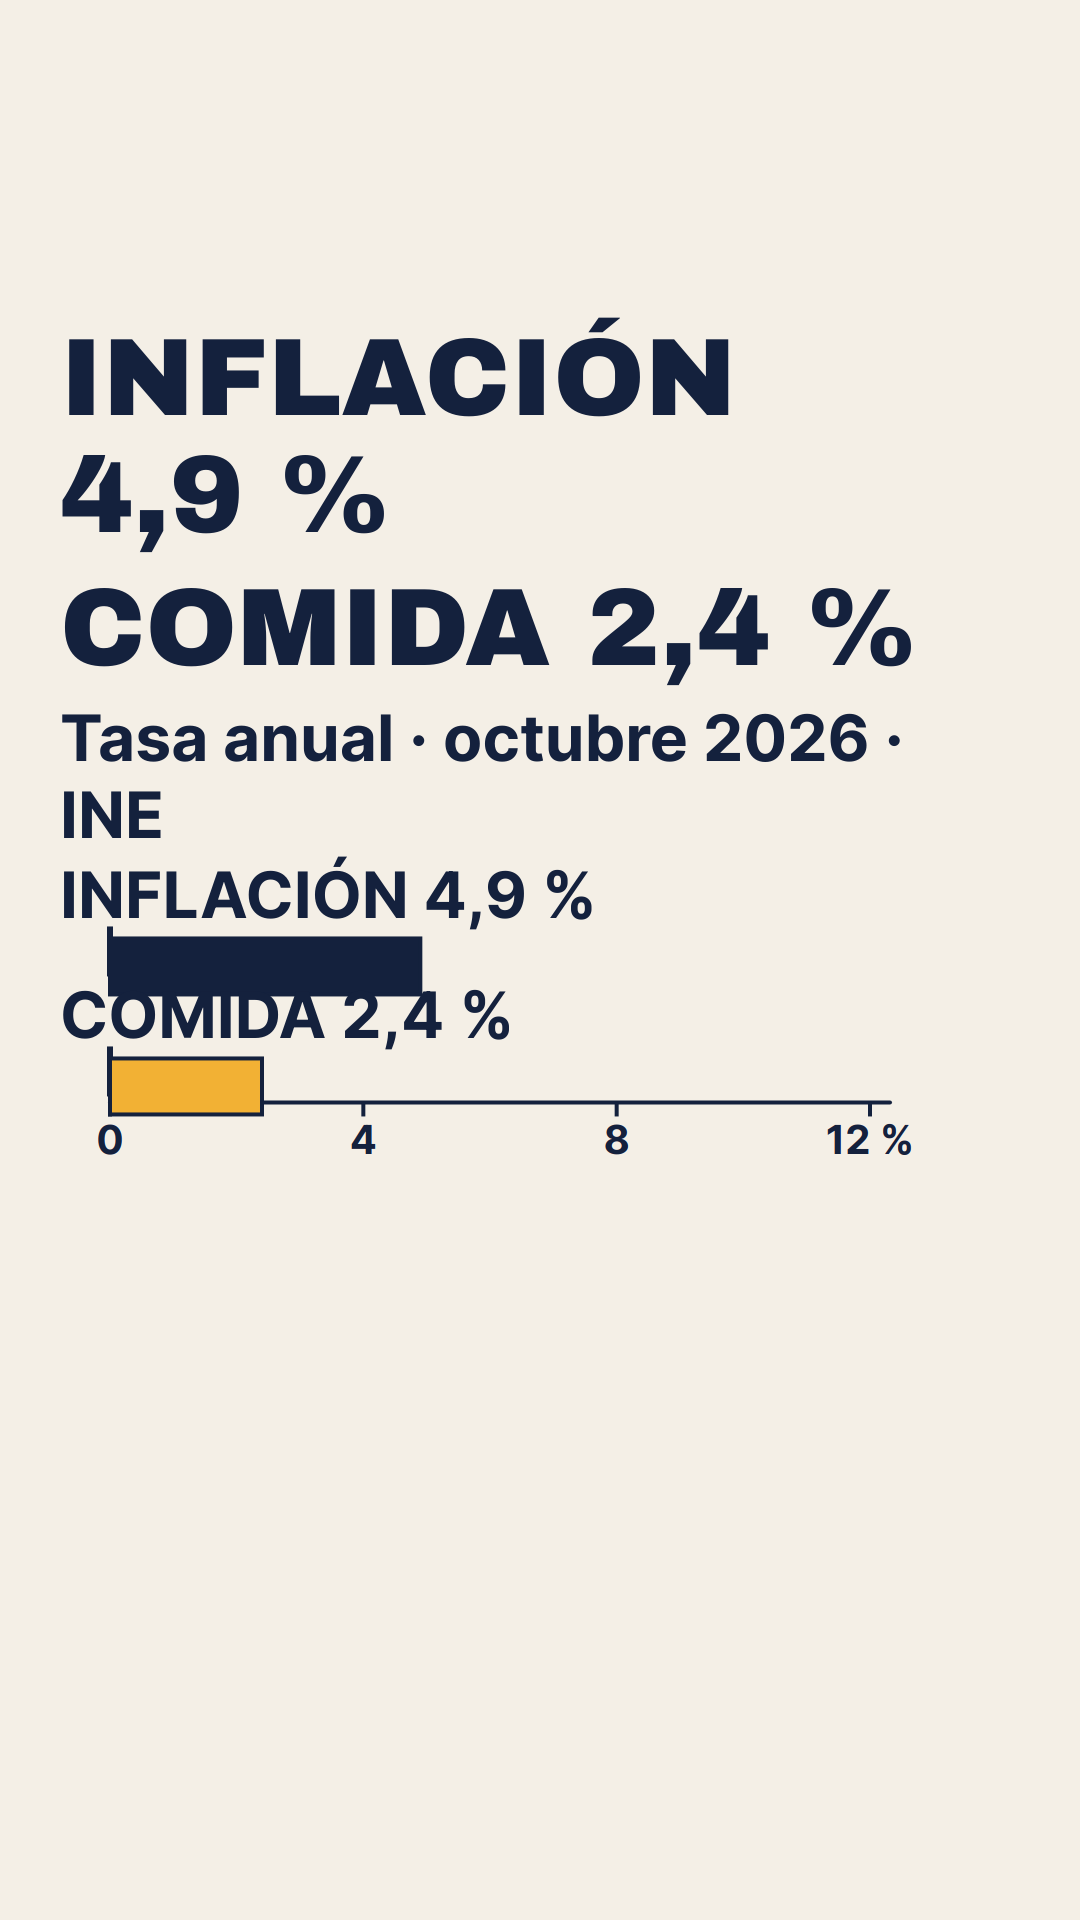
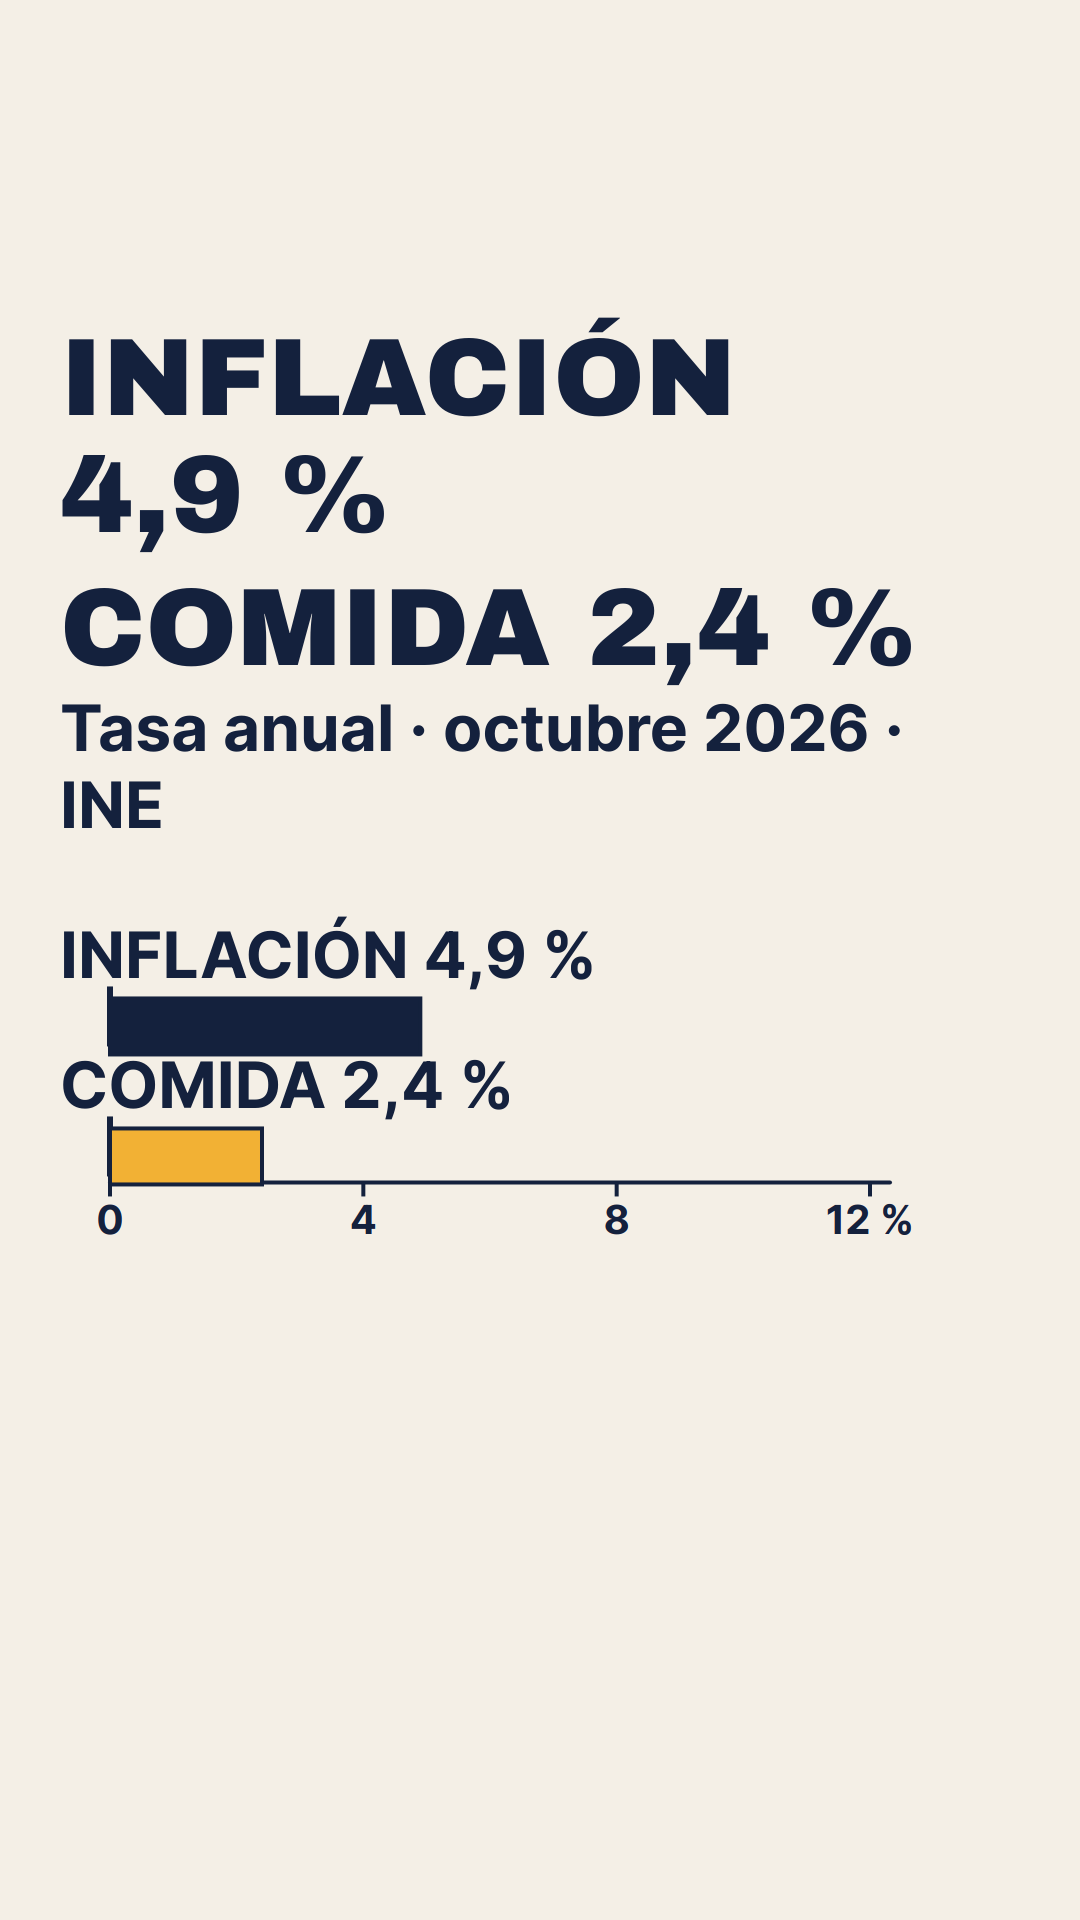
Render 051 v2

diff --git a/revisiones/videos/051-ipc-comida-v1.md b/revisiones/videos/051-ipc-comida-v1.md
@@ -1,0 +1,19 @@
+# Revisión de vídeo · 051-ipc-comida · vuelta 1
+**Veredicto:** CAMBIOS  →  vuelve a: generador-video
+**Técnica:** 1080x1920 · 30 fps · H.264+AAC · 28,07 s · -14,2 LUFS · -1,5 dBTP (OK). comprobar.mjs: OK.
+**Test de formato Reel/TikTok:** 8/10 (fallan: gancho legible a la primera, cierre con CTA en pantalla)
+
+## Obligatorio (bloqueante)
+1. [00:00–06:30] Gancho con solapes: el rótulo "Tasa anual · octubre 2026 · INE" parte en 2 líneas (y=700) y la 2.ª ("INE") pisa la etiqueta "INFLACIÓN 4,9 %" del gráfico (y≈860); la etiqueta "COMIDA 2,4 %" queda cruzada por la barra de inflación. Además las cifras salen duplicadas (gancho 110 px + etiquetas del gráfico). → Acortar el rótulo a una línea o bajar barrasHSerie (y0 ≥ 960) y subir alto/separación entre filas; quitar el texto duplicado o las etiquetas del gráfico.
+2. [00:22–00:28] Cierre sin el "Síguenos" hablado: la tarjeta final solo dice "¿COMIDA O VIVIENDA?" (el guion pide "Síguenos" y "Fuentes en la descripción"). → Añadir `cta` "Síguenos" / texto de fuentes en el cierre (regla 8).
+
+## Formato Reel/TikTok
+1. [00:15–00:20] Tras "Sin energía ni alimentos no elaborados" el hueco entre rótulo (y 450) y gráfico (y 760) deja el tercio inferior vacío; la barra subyacente entra tarde (`en` 2,88 s). → Adelantar la barra o subir el gráfico.
+2. Tercio inferior vacío en todas las escenas. Tolerable en serie "flash".
+
+## Recomendado
+1. [00:19–00:22] Cola del gráfico sin rótulo largo: valorar mantener "Sin energía…" hasta el final de la frase.
+
+## Lo que funciona bien
+- Literalidad y cifras OK con el guion (4,9 / 2,4 / 7,6 / 10,3 / 3,1; INE 13-11), nada con x > 960.
+- Voz y audio en rango; barras con eje 0–12 sin truncar, honestas. Idea única clara y pregunta A/B con bucle.
